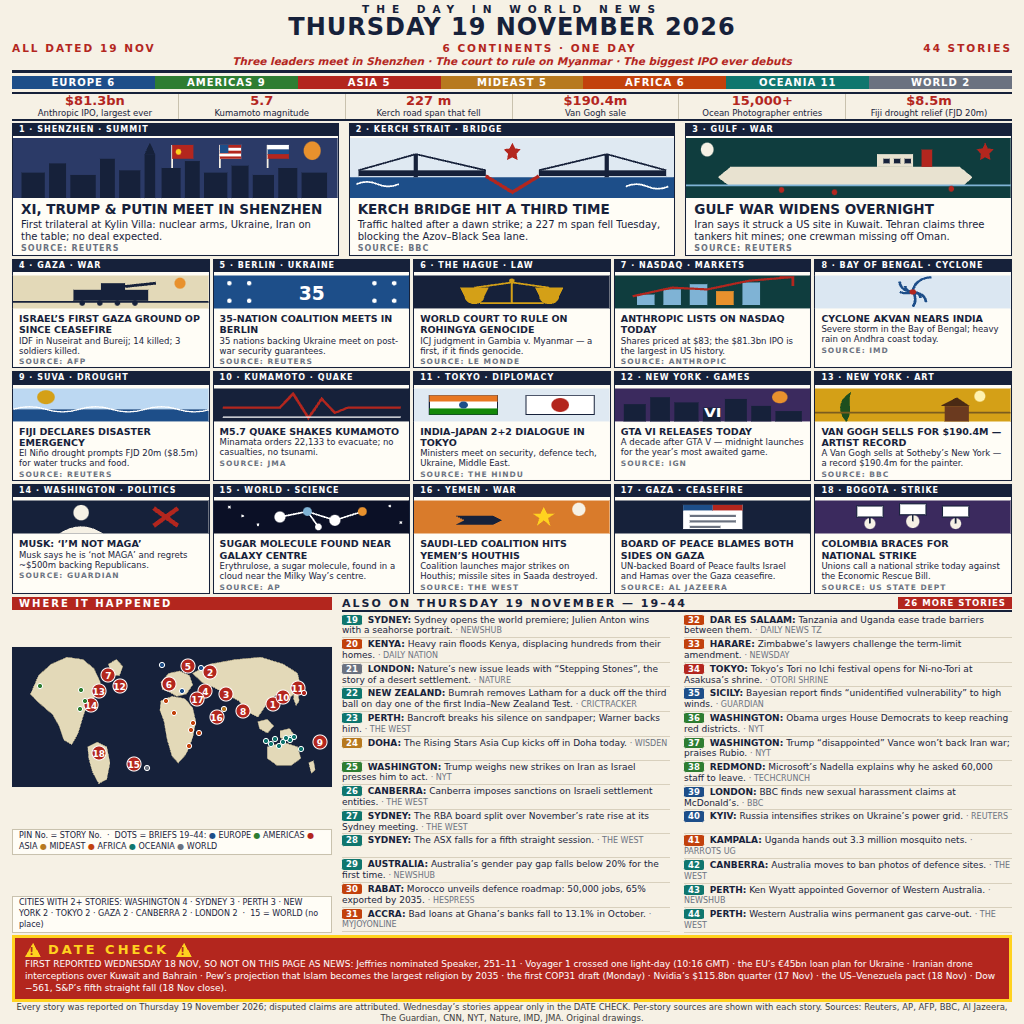
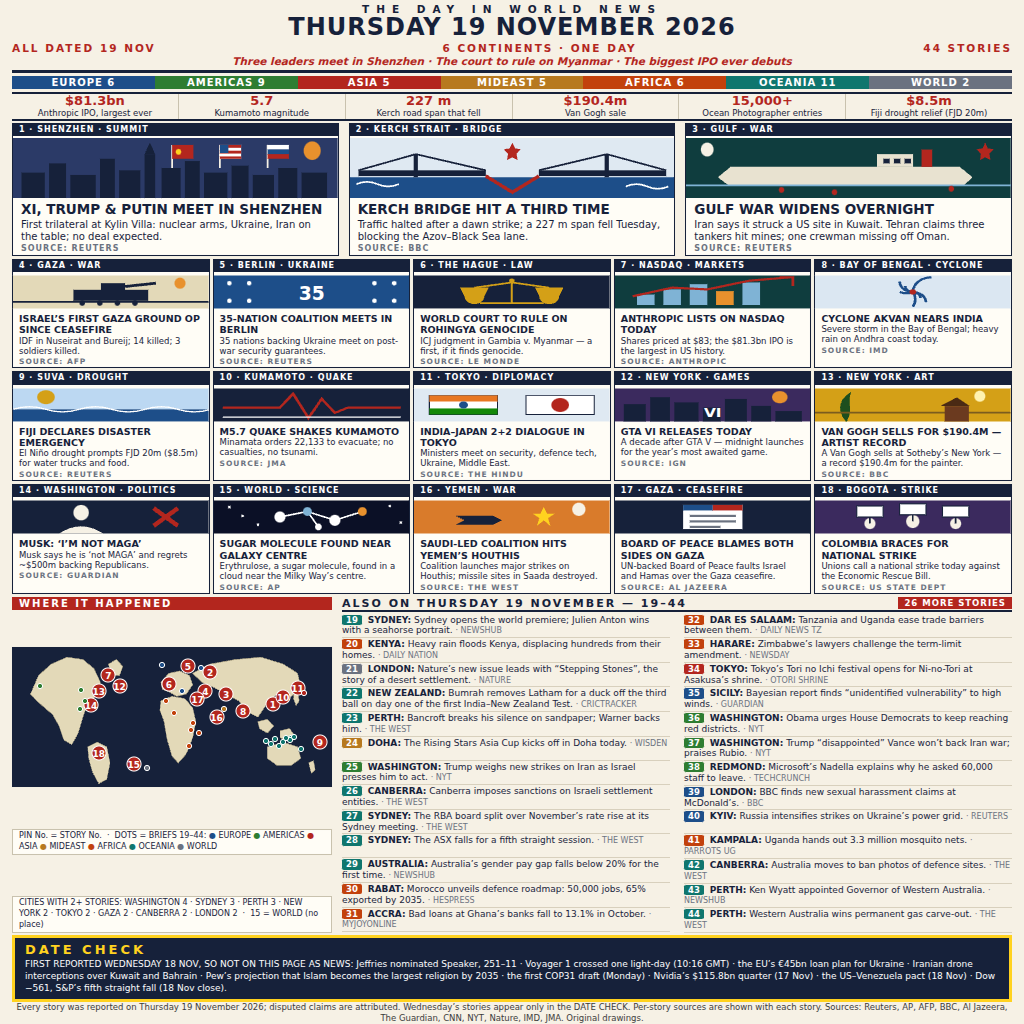
rev-7: DATE CHECK pita navy (ganti merah terang #b3261e -> navy #16213a, hapus segitiga peringatan; ukuran + border kuning tetap, isi 9 item Rabu tetap)

Changed region(s): [[0.0, 0.9062, 1.0, 1.0]]

diff --git a/render.html b/render.html
@@ -48,7 +48,7 @@ h1.date { font-size:24px; line-height:1.05; letter-spacing:1px; font-weight:900;
 .num-cell + .num-cell { border-left:1px solid #c9c2ae; }
 .num-cell .v { font-size:13px; font-weight:900; color:#b3261e; line-height:1.1; }
 .num-cell .l { font-size:8.5px; line-height:1.2; margin-top:0; }
-.datecheck { margin-top:2px; border:3px solid #ffd21f; background:#b3261e; color:#fff; padding:4px 10px 5px; }
+.datecheck { margin-top:2px; border:3px solid #ffd21f; background:#16213a; color:#fff; padding:4px 10px 5px; }
 .datecheck .dc-head { display:flex; align-items:center; gap:7px; font-size:13px; font-weight:900; letter-spacing:3px; color:#ffd21f; margin-bottom:2px; line-height:1.2; }
 .datecheck .dc-items { font-size:9px; line-height:1.3; }
 .footer { font-size:8.5px; text-align:center; margin-top:0; line-height:1.25; color:#3a3a3a; }
@@ -308,7 +308,7 @@ h1.date { font-size:24px; line-height:1.05; letter-spacing:1px; font-weight:900;
   </div>
 </div>
 
-<div class="datecheck"><div class="dc-head"><svg width="16" height="14" viewBox="0 0 16 14"><polygon points="8,0 16,14 0,14" fill="#ffd21f"/><text x="8" y="11.5" font-size="10" font-weight="bold" fill="#b3261e" text-anchor="middle">!</text></svg>DATE CHECK<svg width="16" height="14" viewBox="0 0 16 14"><polygon points="8,0 16,14 0,14" fill="#ffd21f"/><text x="8" y="11.5" font-size="10" font-weight="bold" fill="#b3261e" text-anchor="middle">!</text></svg></div><div class="dc-items">FIRST REPORTED WEDNESDAY 18 NOV, SO NOT ON THIS PAGE AS NEWS: Jeffries nominated Speaker, 251&ndash;11 &middot; Voyager 1 crossed one light-day (10:16 GMT) &middot; the EU&rsquo;s &euro;45bn loan plan for Ukraine &middot; Iranian drone interceptions over Kuwait and Bahrain &middot; Pew&rsquo;s projection that Islam becomes the largest religion by 2035 &middot; the first COP31 draft (Monday) &middot; Nvidia&rsquo;s $115.8bn quarter (17 Nov) &middot; the US&ndash;Venezuela pact (18 Nov) &middot; Dow &minus;561, S&amp;P&rsquo;s fifth straight fall (18 Nov close).</div></div>
+<div class="datecheck"><div class="dc-head">DATE CHECK</div><div class="dc-items">FIRST REPORTED WEDNESDAY 18 NOV, SO NOT ON THIS PAGE AS NEWS: Jeffries nominated Speaker, 251&ndash;11 &middot; Voyager 1 crossed one light-day (10:16 GMT) &middot; the EU&rsquo;s &euro;45bn loan plan for Ukraine &middot; Iranian drone interceptions over Kuwait and Bahrain &middot; Pew&rsquo;s projection that Islam becomes the largest religion by 2035 &middot; the first COP31 draft (Monday) &middot; Nvidia&rsquo;s $115.8bn quarter (17 Nov) &middot; the US&ndash;Venezuela pact (18 Nov) &middot; Dow &minus;561, S&amp;P&rsquo;s fifth straight fall (18 Nov close).</div></div>
 
 <div class="footer">Every story was reported on Thursday 19 November 2026; disputed claims are attributed. Wednesday&rsquo;s stories appear only in the DATE CHECK. Per-story sources are shown with each story. Sources: Reuters, AP, AFP, BBC, Al Jazeera, The Guardian, CNN, NYT, Nature, IMD, JMA. Original drawings.</div>
 </body>
